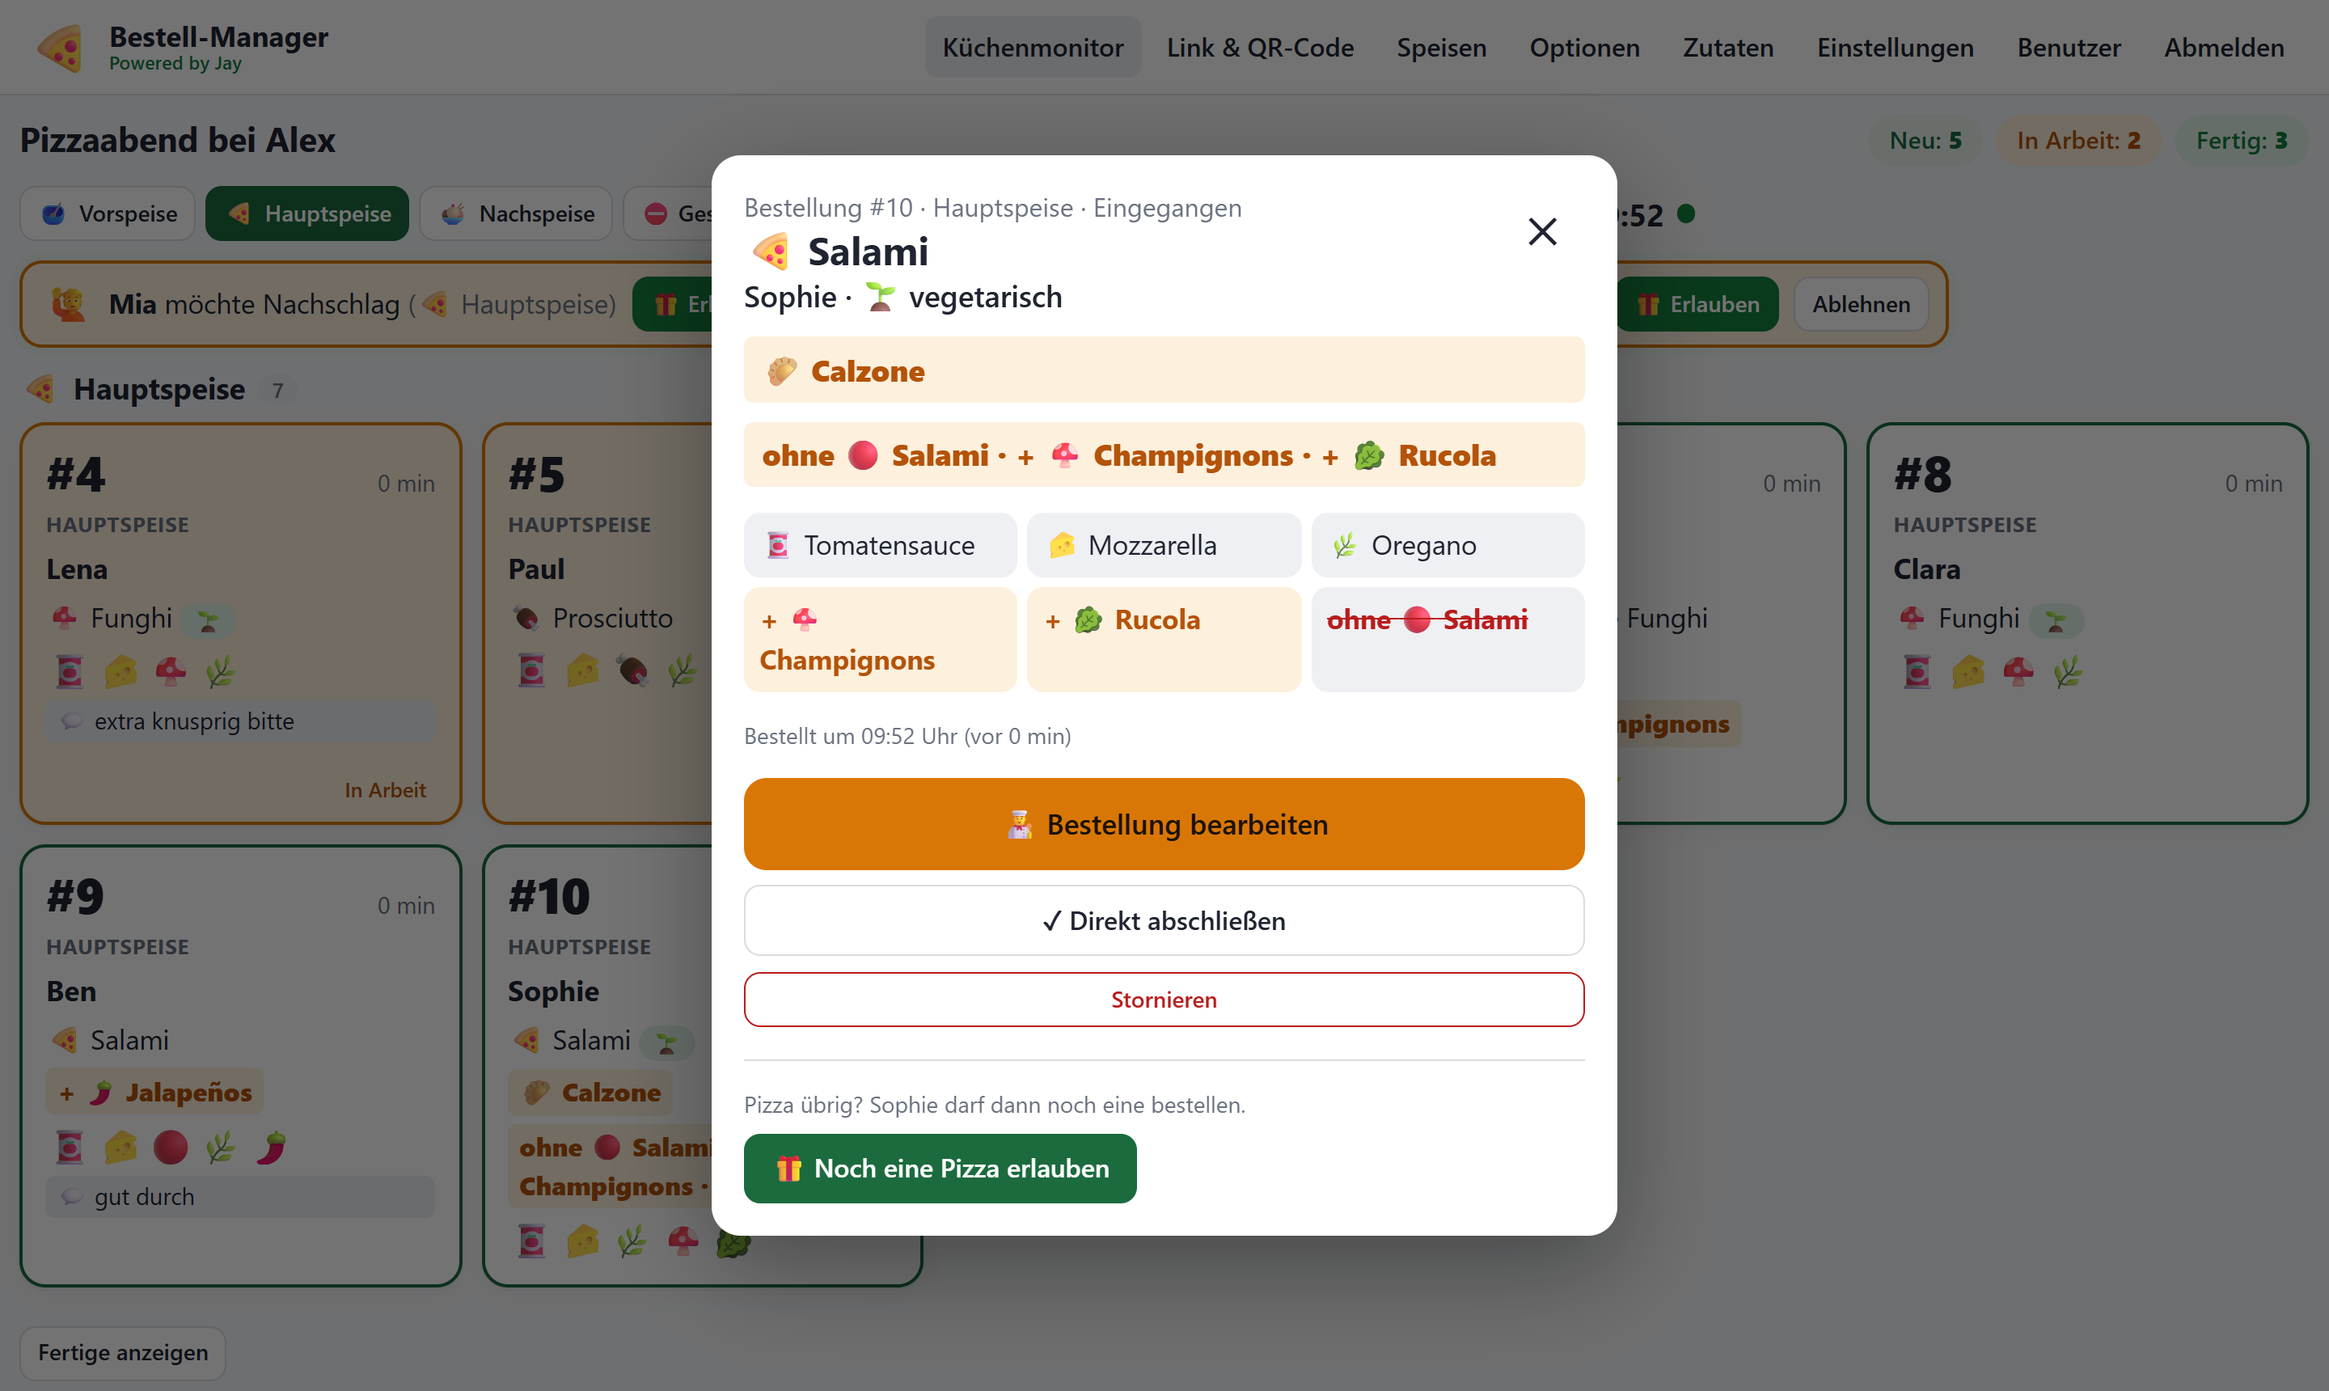
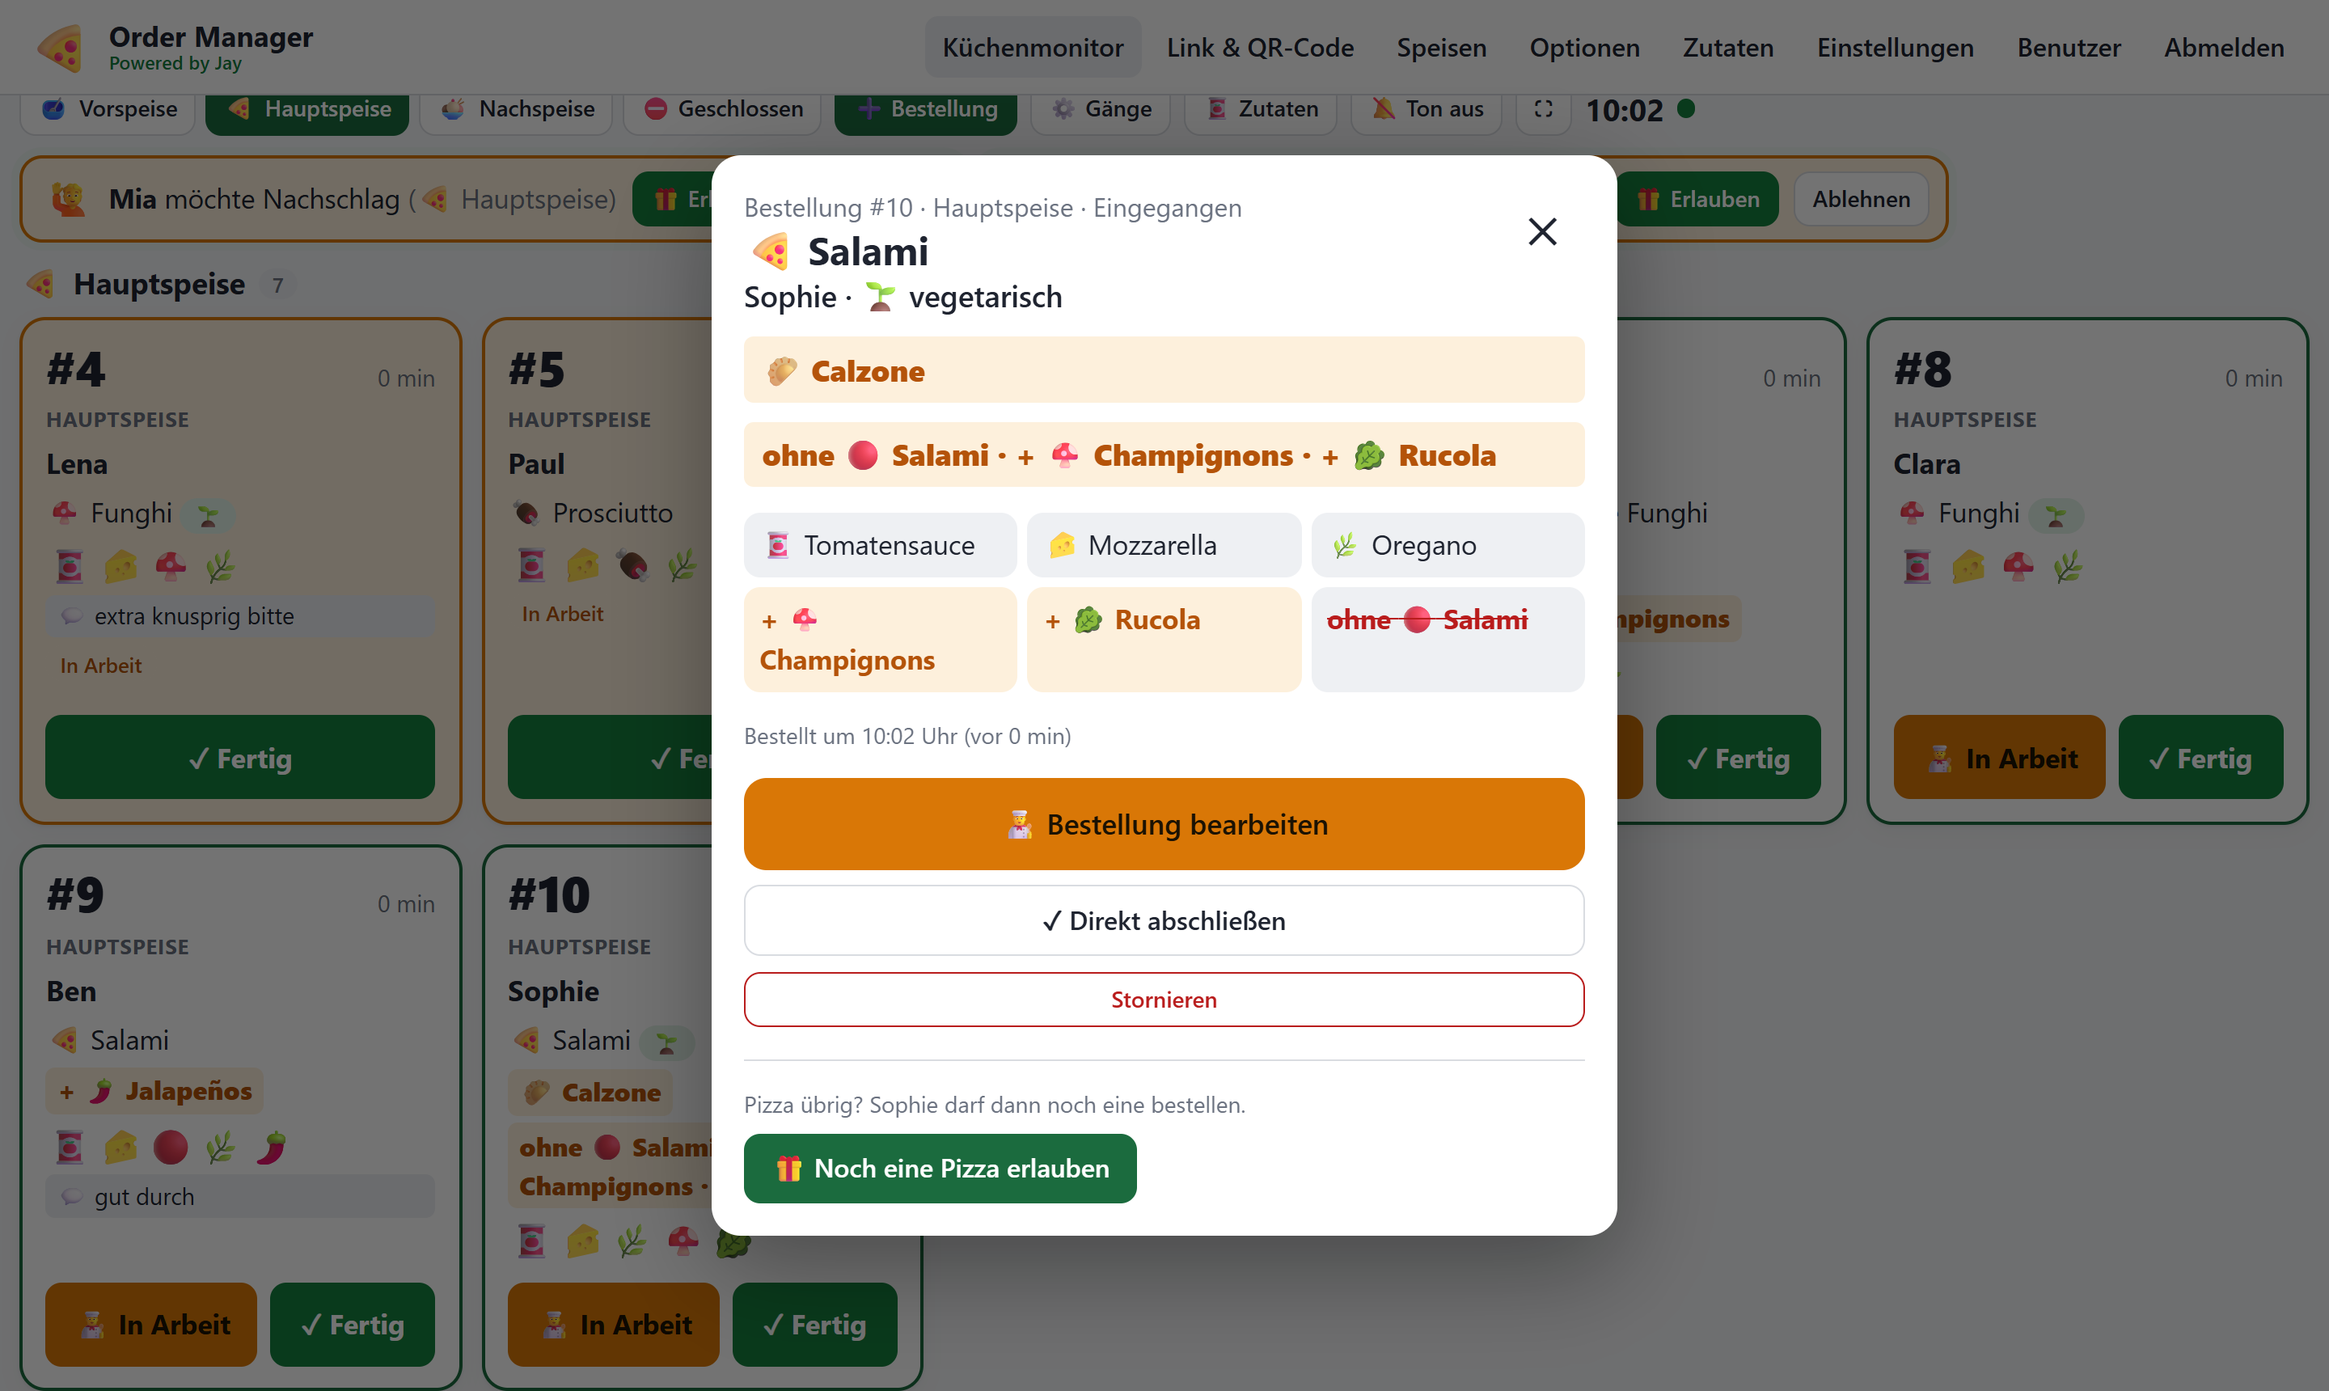
feat: Küchenmonitor mit Schnellknöpfen und Einrichtung, Name "Order Manager"
- Kacheln haben "In Arbeit" / "Fertig" direkt zum Antippen; ein Tipp auf
  die Kachel öffnet weiterhin die Details.
- Frischer Bestelltag ohne Gäste: Der Küchenmonitor fragt einmal, welche
  Gänge es heute gibt und womit es losgeht (events.setup_done, Migration;
  bestehende Bestelltage gelten als eingerichtet).
- Sichtbarer Name überall "Order Manager" (technische Namen wie das
  Docker-Projekt bleiben, damit das DB-Volume erhalten bleibt).
- Screenshots aktualisiert, Einrichtungs-Dialog ergänzt.

diff --git a/app/static/js/kitchen.js b/app/static/js/kitchen.js
@@ -50,11 +50,26 @@
       </button>`;
   }
 
+  // Schnellknoepfe direkt auf der Kachel: ein Tipp statt Dialog
+  function quickActions(o) {
+    if (cfg.readOnly) return "";
+    if (o.status === "new") {
+      return `<div class="tile-actions">
+        <button type="button" class="btn btn-warn" data-quick="in_progress">👨🍳 In Arbeit</button>
+        <button type="button" class="btn btn-ok" data-quick="done">✓ Fertig</button>
+      </div>`;
+    }
+    if (o.status === "in_progress") {
+      return `<div class="tile-actions"><button type="button" class="btn btn-ok" data-quick="done">✓ Fertig</button></div>`;
+    }
+    return "";
+  }
+
   function tileHtml(o, fresh) {
     if (o.is_skip) return skipTileHtml(o, fresh);
     const icons = o.ingredients.map((i) => i.icon).filter(Boolean).join("");
     return `
-      <button type="button" class="tile tile-${o.status}${fresh ? " fresh" : ""}" data-id="${o.id}">
+      <div role="button" tabindex="0" class="tile tile-${o.status}${fresh ? " fresh" : ""}" data-id="${o.id}">
         <div class="tile-top">
           <span class="tile-number">#${o.number}</span>
           <span class="tile-age" data-created="${esc(o.created_at)}">${minutesSince(o.created_at)}</span>
@@ -67,7 +82,8 @@
         <div class="tile-icons emoji">${esc(icons)}</div>
         ${o.note ? `<div class="tile-note">💬 ${esc(o.note)}</div>` : ""}
         ${o.status === "in_progress" ? '<span class="tile-status badge badge-warn">In Arbeit</span>' : ""}
-      </button>`;
+        ${quickActions(o)}
+      </div>`;
   }
 
   // Bei mehreren Gaengen je Gang eine eigene Gruppe (Vorspeise, Hauptspeise, Nachspeise)
@@ -333,6 +349,35 @@
     });
   }
 
+  // ---------------------------------------------------------------- Einrichtung (frischer Bestelltag)
+  const setupForm = $("#setup-form");
+  if (setupForm) {
+    const step = (n) => setupForm.querySelectorAll("[data-setup-step]").forEach((el) => {
+      el.hidden = el.dataset.setupStep !== String(n);
+    });
+    const checked = () => Array.from(setupForm.querySelectorAll('input[name="courses"]:checked')).map((b) => b.value);
+    const updateMainKind = () => { setupForm.querySelector("[data-main-kind]").hidden = !checked().includes("main"); };
+    setupForm.addEventListener("change", (ev) => {
+      if (ev.target.name === "courses") {
+        updateMainKind();
+        setupForm.querySelector("[data-setup-error]").hidden = true;
+      }
+    });
+    setupForm.querySelector("[data-setup-next]").addEventListener("click", () => {
+      const courses = checked();
+      if (!courses.length) { setupForm.querySelector("[data-setup-error]").hidden = false; return; }
+      // Nur die gewaehlten Gaenge zum Starten anbieten, vorausgewaehlt der erste
+      setupForm.querySelectorAll("[data-start]").forEach((tile) => {
+        const on = courses.includes(tile.dataset.start);
+        tile.hidden = !on;
+        tile.querySelector("input").checked = on && tile.dataset.start === courses[0];
+      });
+      step(2);
+    });
+    setupForm.querySelector("[data-setup-back]").addEventListener("click", () => step(1));
+    updateMainKind();
+  }
+
   // ---------------------------------------------------------------- Bestellung erfassen
   const entryModal = $("#entry-modal");
   const entrySelect = $("#entry-guest");
@@ -469,6 +514,11 @@
 
   // ---------------------------------------------------------------- Events
   document.addEventListener("click", (ev) => {
+    const quick = ev.target.closest("[data-quick]");
+    if (quick) {
+      setStatus(Number(quick.closest(".tile").dataset.id), quick.dataset.quick, quick);
+      return;
+    }
     const tile = ev.target.closest(".tile");
     if (tile) {
       const o = orders.find((x) => x.id === Number(tile.dataset.id));
@@ -479,6 +529,12 @@
     if (ev.target.closest("[data-close]") || ev.target === $("#modal")) closeModal();
   });
   document.addEventListener("keydown", (ev) => {
+    // Kachel per Tastatur oeffnen (sie ist ein div wegen der Knoepfe darin)
+    if ((ev.key === "Enter" || ev.key === " ") && ev.target.classList?.contains("tile")) {
+      ev.preventDefault();
+      ev.target.click();
+      return;
+    }
     if (ev.key !== "Escape") return;
     closeModal();
     if (stockModal) stockModal.hidden = true;

diff --git a/app/templates/kitchen.html b/app/templates/kitchen.html
@@ -34,7 +34,7 @@
     <div class="big emoji">🍕</div>
     <p>Für heute gibt es noch keinen Bestell-Link.</p>
     <form method="post" action="/link/create">
-      {{ m.csrf() }}
+      {{ m.csrf() }}<input type="hidden" name="next" value="/kitchen">
       <button class="btn btn-primary btn-lg" type="submit">Bestell-Link für heute erstellen</button>
     </form>
   </div>
@@ -47,6 +47,61 @@
     <button class="btn btn-sm" type="button" id="done-toggle">Fertige anzeigen</button>
   </h2>
   <div id="tiles-done" hidden></div>
+{% endif %}
+
+{% if needs_setup %}
+{# Frischer Bestelltag: zuerst Gaenge festlegen, dann den Start waehlen #}
+<div class="modal-backdrop" id="setup-modal">
+  <div class="modal" role="dialog" aria-modal="true" aria-labelledby="setup-title">
+    <form method="post" action="/kitchen/setup" id="setup-form">
+      {{ m.csrf() }}
+      <div data-setup-step="1">
+        <p class="muted small" style="margin:0">Schritt 1 von 2</p>
+        <h2 id="setup-title" style="margin:.2rem 0 .3rem">Was gibt es heute?</h2>
+        <p class="muted" style="margin-top:0">Tippe alle Gänge an, die du heute anbietest.</p>
+        <div class="setup-choices">
+          {% for c, label in COURSES.items() %}
+            <label class="ing-tile setup-choice">
+              <input type="checkbox" name="courses" value="{{ c }}" data-label="{{ label }}" {{ 'checked' if c in event.courses }}>
+              <span><b class="emoji">{{ KINDS[c].icon if c != 'main' else '🍽' }}</b><span class="ing-name">{{ label }}</span></span>
+            </label>
+            {% if c == 'main' %}
+              <div class="setup-main-kind" data-main-kind>
+                <label class="check"><input type="radio" name="main_kind" value="pizza" {{ 'checked' if event.main_kind == 'pizza' }}> <span class="emoji">🍕</span> Pizza</label>
+                <label class="check"><input type="radio" name="main_kind" value="main" {{ 'checked' if event.main_kind == 'main' }}> <span class="emoji">🍽</span> Andere Hauptgerichte</label>
+              </div>
+            {% endif %}
+          {% endfor %}
+        </div>
+        <p class="flash flash-error" data-setup-error hidden>Bitte wähle mindestens einen Gang.</p>
+        <div class="modal-actions">
+          <button type="button" class="btn btn-primary btn-lg btn-block" data-setup-next>Weiter ›</button>
+        </div>
+      </div>
+      <div data-setup-step="2" hidden>
+        <p class="muted small" style="margin:0">Schritt 2 von 2</p>
+        <h2 style="margin:.2rem 0 .3rem">Womit startest du?</h2>
+        <p class="muted" style="margin-top:0">Gäste können nur im freigegebenen Gang bestellen. Umschalten kannst du jederzeit oben in der Leiste.</p>
+        <div class="setup-choices">
+          {% for c, label in COURSES.items() %}
+            <label class="ing-tile setup-choice" data-start="{{ c }}">
+              <input type="radio" name="start" value="{{ c }}">
+              <span><b class="emoji">{{ KINDS[c].icon if c != 'main' else '🍽' }}</b><span class="ing-name">{{ label }} freigeben</span></span>
+            </label>
+          {% endfor %}
+          <label class="ing-tile setup-choice">
+            <input type="radio" name="start" value="">
+            <span><b class="emoji">⛔</b><span class="ing-name">Noch geschlossen</span></span>
+          </label>
+        </div>
+        <div class="modal-actions">
+          <button type="submit" class="btn btn-primary btn-lg btn-block">Los geht's</button>
+          <button type="button" class="btn btn-block" data-setup-back>‹ Zurück</button>
+        </div>
+      </div>
+    </form>
+  </div>
+</div>
 {% endif %}
 
 {% if event and is_today %}
@@ -157,5 +212,5 @@
       readOnly: {{ 'false' if is_today else 'true' }}
     };
   </script>
-  {% if event %}<script src="/static/js/kitchen.js?v=14"></script>{% endif %}
+  {% if event %}<script src="/static/js/kitchen.js?v=15"></script>{% endif %}
 {% endblock %}

diff --git a/app/templates/base.html b/app/templates/base.html
@@ -4,7 +4,7 @@
 <head>
   <meta charset="utf-8">
   <meta name="viewport" content="width=device-width, initial-scale=1, viewport-fit=cover">
-  <title>{% block title %}Bestell-Manager{% endblock %}</title>
+  <title>{% block title %}Order Manager{% endblock %}</title>
   <link rel="icon" type="image/png" href="/static/img/icon-192.png">
   <link rel="manifest" href="/static/manifest.webmanifest">
   <link rel="apple-touch-icon" href="/static/img/icon-180.png">
@@ -13,7 +13,7 @@
   <meta name="apple-mobile-web-app-capable" content="yes">
   <meta name="apple-mobile-web-app-status-bar-style" content="black-translucent">
   <meta name="apple-mobile-web-app-title" content="Bestellungen">
-  <link rel="stylesheet" href="/static/css/app.css?v=16">
+  <link rel="stylesheet" href="/static/css/app.css?v=17">
   <script src="/static/js/app.js?v=2" defer></script>
   {% block head %}{% endblock %}
 </head>
@@ -23,7 +23,7 @@
     <div class="brand">
       <a class="brand-icon emoji" href="/" tabindex="-1" aria-hidden="true">🍕</a>
       <div class="brand-text">
-        <a class="brand-name" href="/">Bestell-Manager</a>
+        <a class="brand-name" href="/">Order Manager</a>
         <a class="brand-credit" href="https://jaycloud.at/ordermanager" target="_blank" rel="noopener">Powered by Jay</a>
       </div>
     </div>
@@ -54,7 +54,7 @@
     {% block content %}{% endblock %}
   </main>
   {% if request.session.get("user_id") %}
-    <footer class="site-footer">Bestell-Manager v{{ APP_VERSION }}</footer>
+    <footer class="site-footer">Order Manager v{{ APP_VERSION }}</footer>
   {% endif %}
   {% block scripts %}{% endblock %}
 </body>

diff --git a/app/static/css/app.css b/app/static/css/app.css
@@ -300,7 +300,15 @@ body.is-fullscreen .site-header { display: none; }
 }
 .extra-request .emoji { font-size: 1.4rem; }
 .extra-request-text { font-size: 1.05rem; }
-.tile-status { position: absolute; right: .7rem; bottom: .6rem; }
+.tile-status { align-self: flex-start; }
+/* Schnellknoepfe: gross genug fuer nasse/mehlige Finger */
+.tile-actions { margin-top: auto; padding-top: .5rem; display: grid; grid-auto-flow: column; grid-auto-columns: 1fr; gap: .5rem; }
+.tile-actions .btn { min-height: 52px; font-size: 1.05rem; font-weight: 700; justify-content: center; }
+.tile:has(.tile-actions .btn:active) { transform: none; }
+/* Einrichtungs-Dialog */
+.setup-choices { display: grid; gap: .5rem; margin: .75rem 0; }
+.setup-choice > span { min-height: 60px; font-size: 1.1rem; font-weight: 600; }
+.setup-main-kind { margin: -.15rem 0 .25rem 1.25rem; }
 @keyframes pulse { 50% { box-shadow: 0 0 0 6px var(--primary-soft); } }
 
 .section-title { display: flex; align-items: center; gap: .5rem; margin: 1.5rem 0 .6rem; color: var(--muted); font-size: 1rem; }

diff --git a/app/templates/catalog/dish_edit.html b/app/templates/catalog/dish_edit.html
@@ -1,6 +1,6 @@
 {% extends "base.html" %}
 {% set info = KINDS[kind] %}
-{% block title %}{{ item.name if item else info.label + ' anlegen' }} – Bestell-Manager{% endblock %}
+{% block title %}{{ item.name if item else info.label + ' anlegen' }} – Order Manager{% endblock %}
 {% block content %}
 <div class="page-head">
   <h1>{{ info.label }} {{ 'bearbeiten' if item else 'anlegen' }}</h1>

diff --git a/app/templates/guest/guest_base.html b/app/templates/guest/guest_base.html
@@ -11,7 +11,7 @@
   <meta name="theme-color" content="#1b6b3e">
   <meta name="apple-mobile-web-app-capable" content="yes">
   <meta name="apple-mobile-web-app-title" content="Bestellung">
-  <link rel="stylesheet" href="/static/css/app.css?v=16">
+  <link rel="stylesheet" href="/static/css/app.css?v=17">
 </head>
 <body class="guest">
   <header class="guest-header">

diff --git a/app/templates/auth/registered.html b/app/templates/auth/registered.html
@@ -1,5 +1,5 @@
 {% extends "base.html" %}
-{% block title %}Registriert – Bestell-Manager{% endblock %}
+{% block title %}Registriert – Order Manager{% endblock %}
 {% block content %}
 <div class="card" style="max-width: 520px; margin: 2rem auto; text-align:center">
   <div style="font-size:3rem" class="emoji">⏳</div>

diff --git a/app/templates/catalog/dishes.html b/app/templates/catalog/dishes.html
@@ -1,6 +1,6 @@
 {% extends "base.html" %}
 {% set info = KINDS[kind] %}
-{% block title %}{{ info.plural }} – Bestell-Manager{% endblock %}
+{% block title %}{{ info.plural }} – Order Manager{% endblock %}
 {% block content %}
 <div class="page-head">
   <h1>Speisen</h1>

diff --git a/app/templates/auth/register.html b/app/templates/auth/register.html
@@ -1,5 +1,5 @@
 {% extends "base.html" %}
-{% block title %}Registrieren – Bestell-Manager{% endblock %}
+{% block title %}Registrieren – Order Manager{% endblock %}
 {% block content %}
 <div style="max-width: 460px; margin: 2rem auto;">
   <div class="card">

diff --git a/app/templates/catalog/options.html b/app/templates/catalog/options.html
@@ -1,6 +1,6 @@
 {% extends "base.html" %}
 {% set info = KINDS[kind] %}
-{% block title %}Optionen – Bestell-Manager{% endblock %}
+{% block title %}Optionen – Order Manager{% endblock %}
 {% block content %}
 <div class="page-head">
   <h1>Optionen</h1>

diff --git a/app/templates/auth/login.html b/app/templates/auth/login.html
@@ -1,5 +1,5 @@
 {% extends "base.html" %}
-{% block title %}Anmelden – Bestell-Manager{% endblock %}
+{% block title %}Anmelden – Order Manager{% endblock %}
 {% block content %}
 <div style="max-width: 420px; margin: 2rem auto;">
   <div class="card">

diff --git a/app/templates/events/link.html b/app/templates/events/link.html
@@ -1,5 +1,5 @@
 {% extends "base.html" %}
-{% block title %}Link &amp; QR-Code – Bestell-Manager{% endblock %}
+{% block title %}Link &amp; QR-Code – Order Manager{% endblock %}
 {% block content %}
 <h1>Bestell-Link &amp; QR-Code</h1>
 
